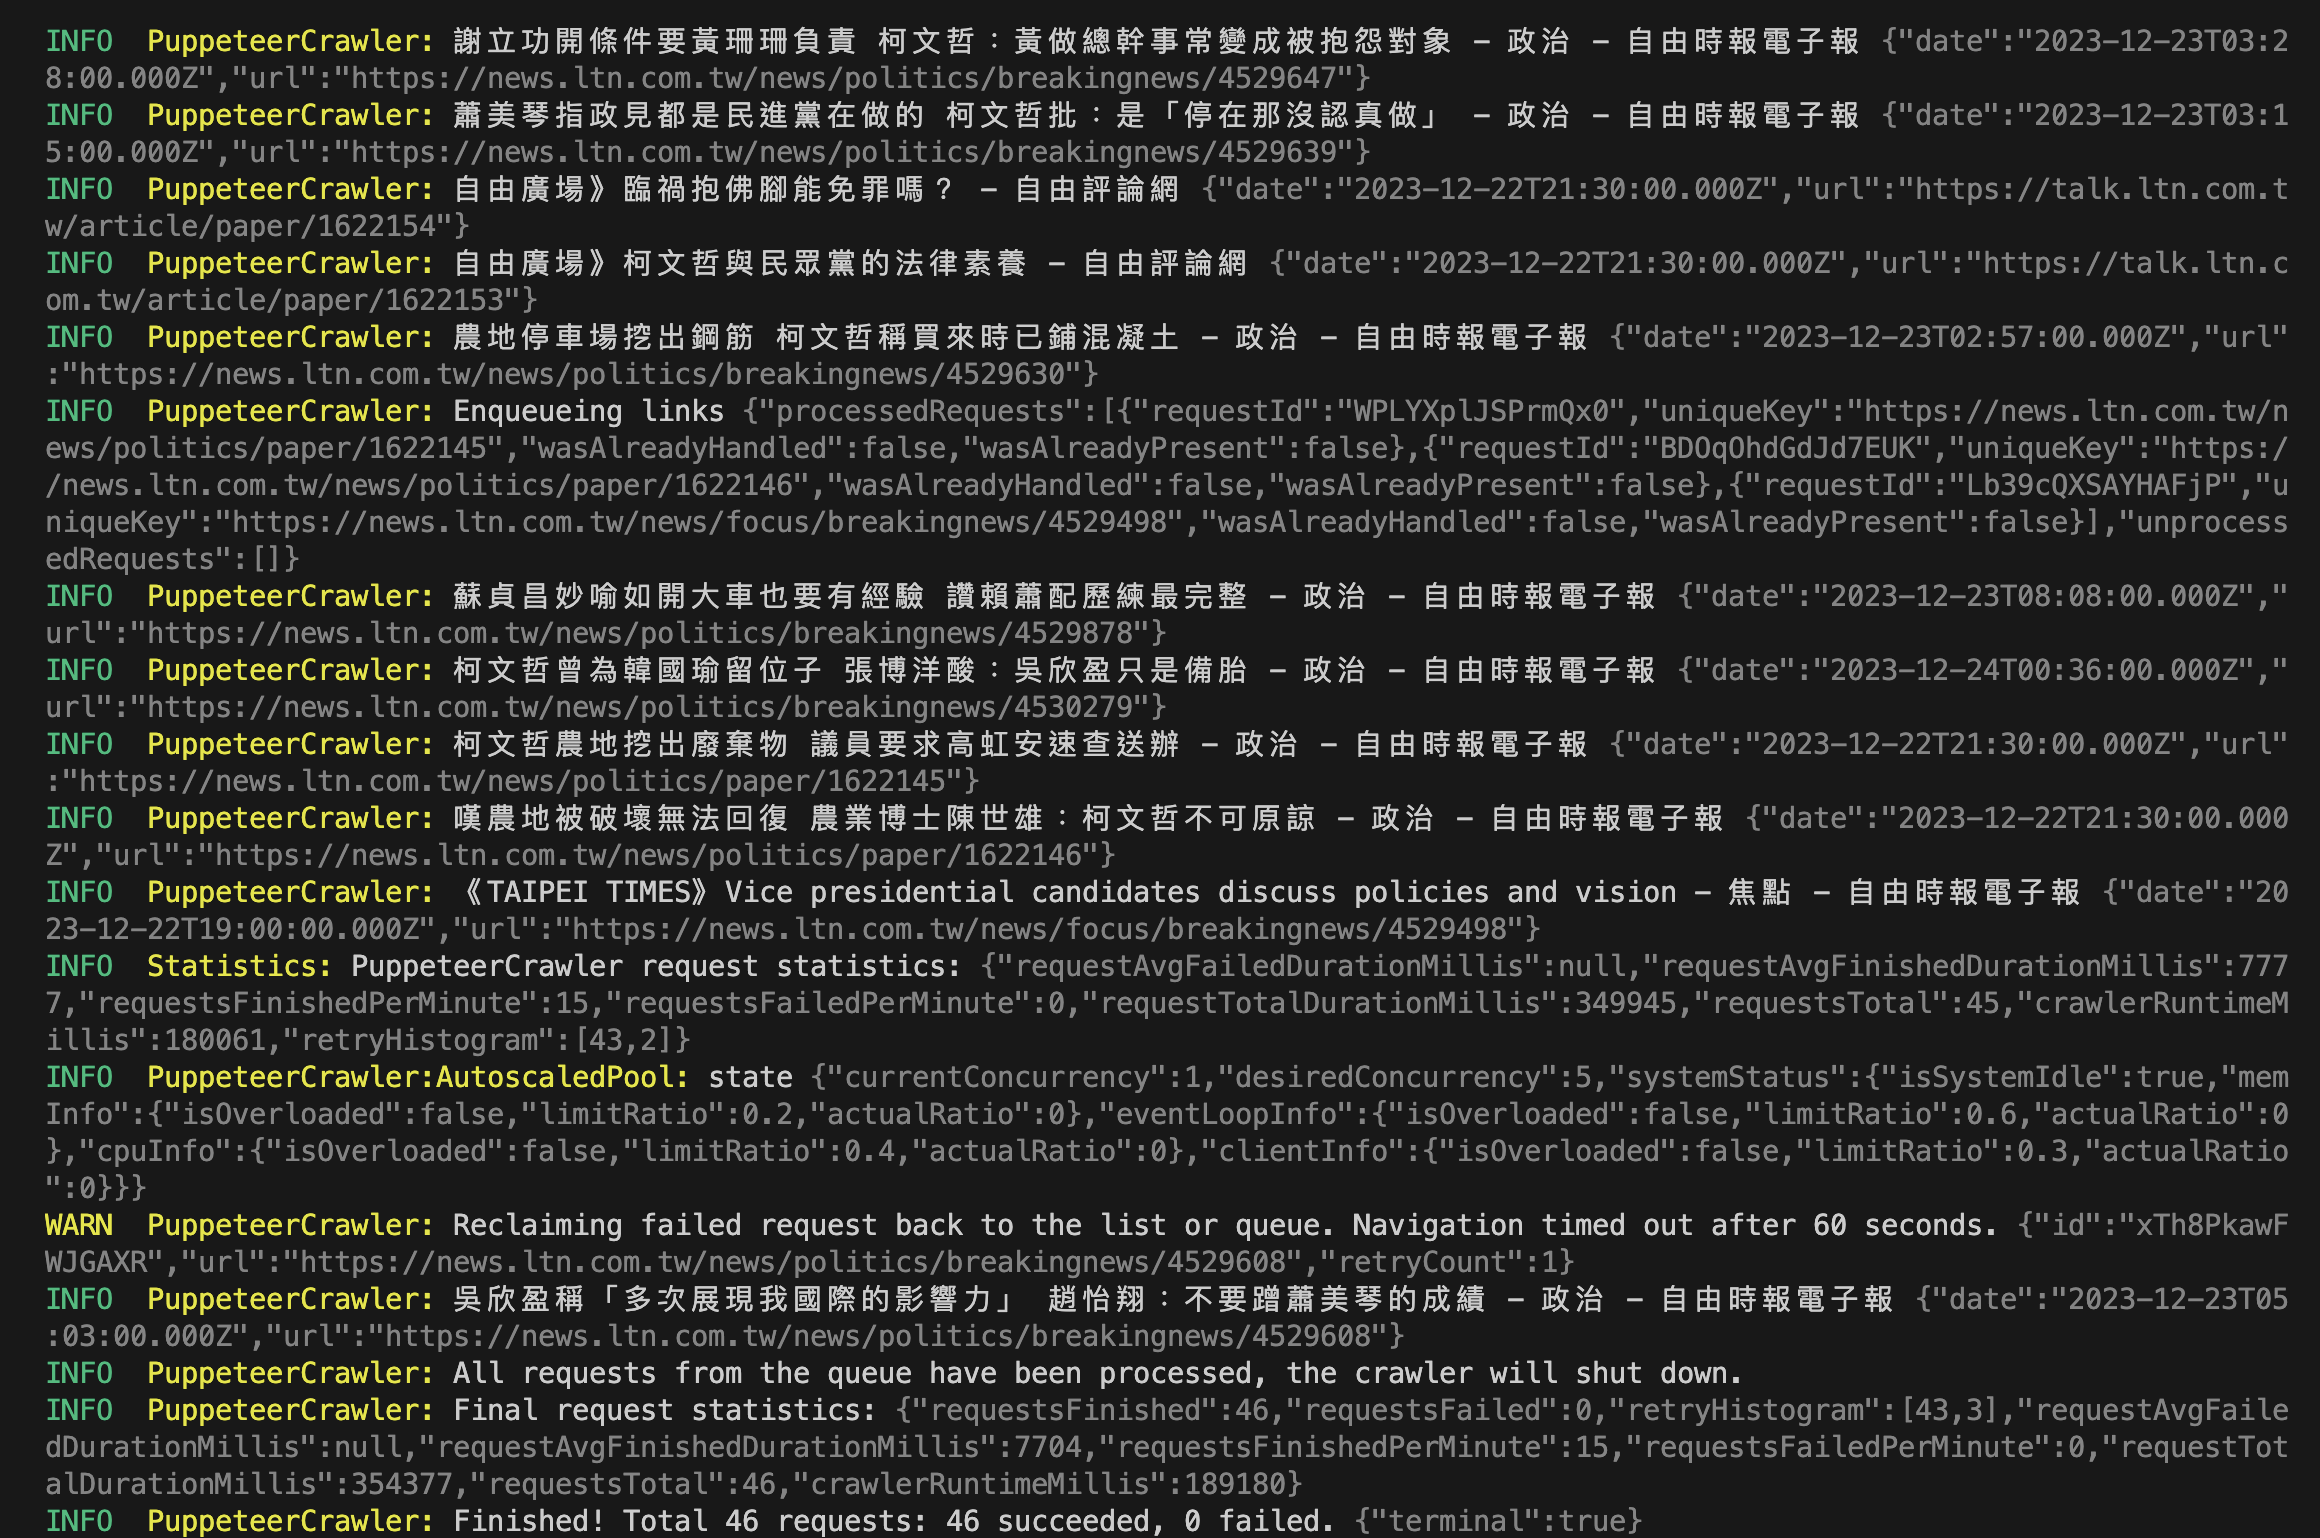
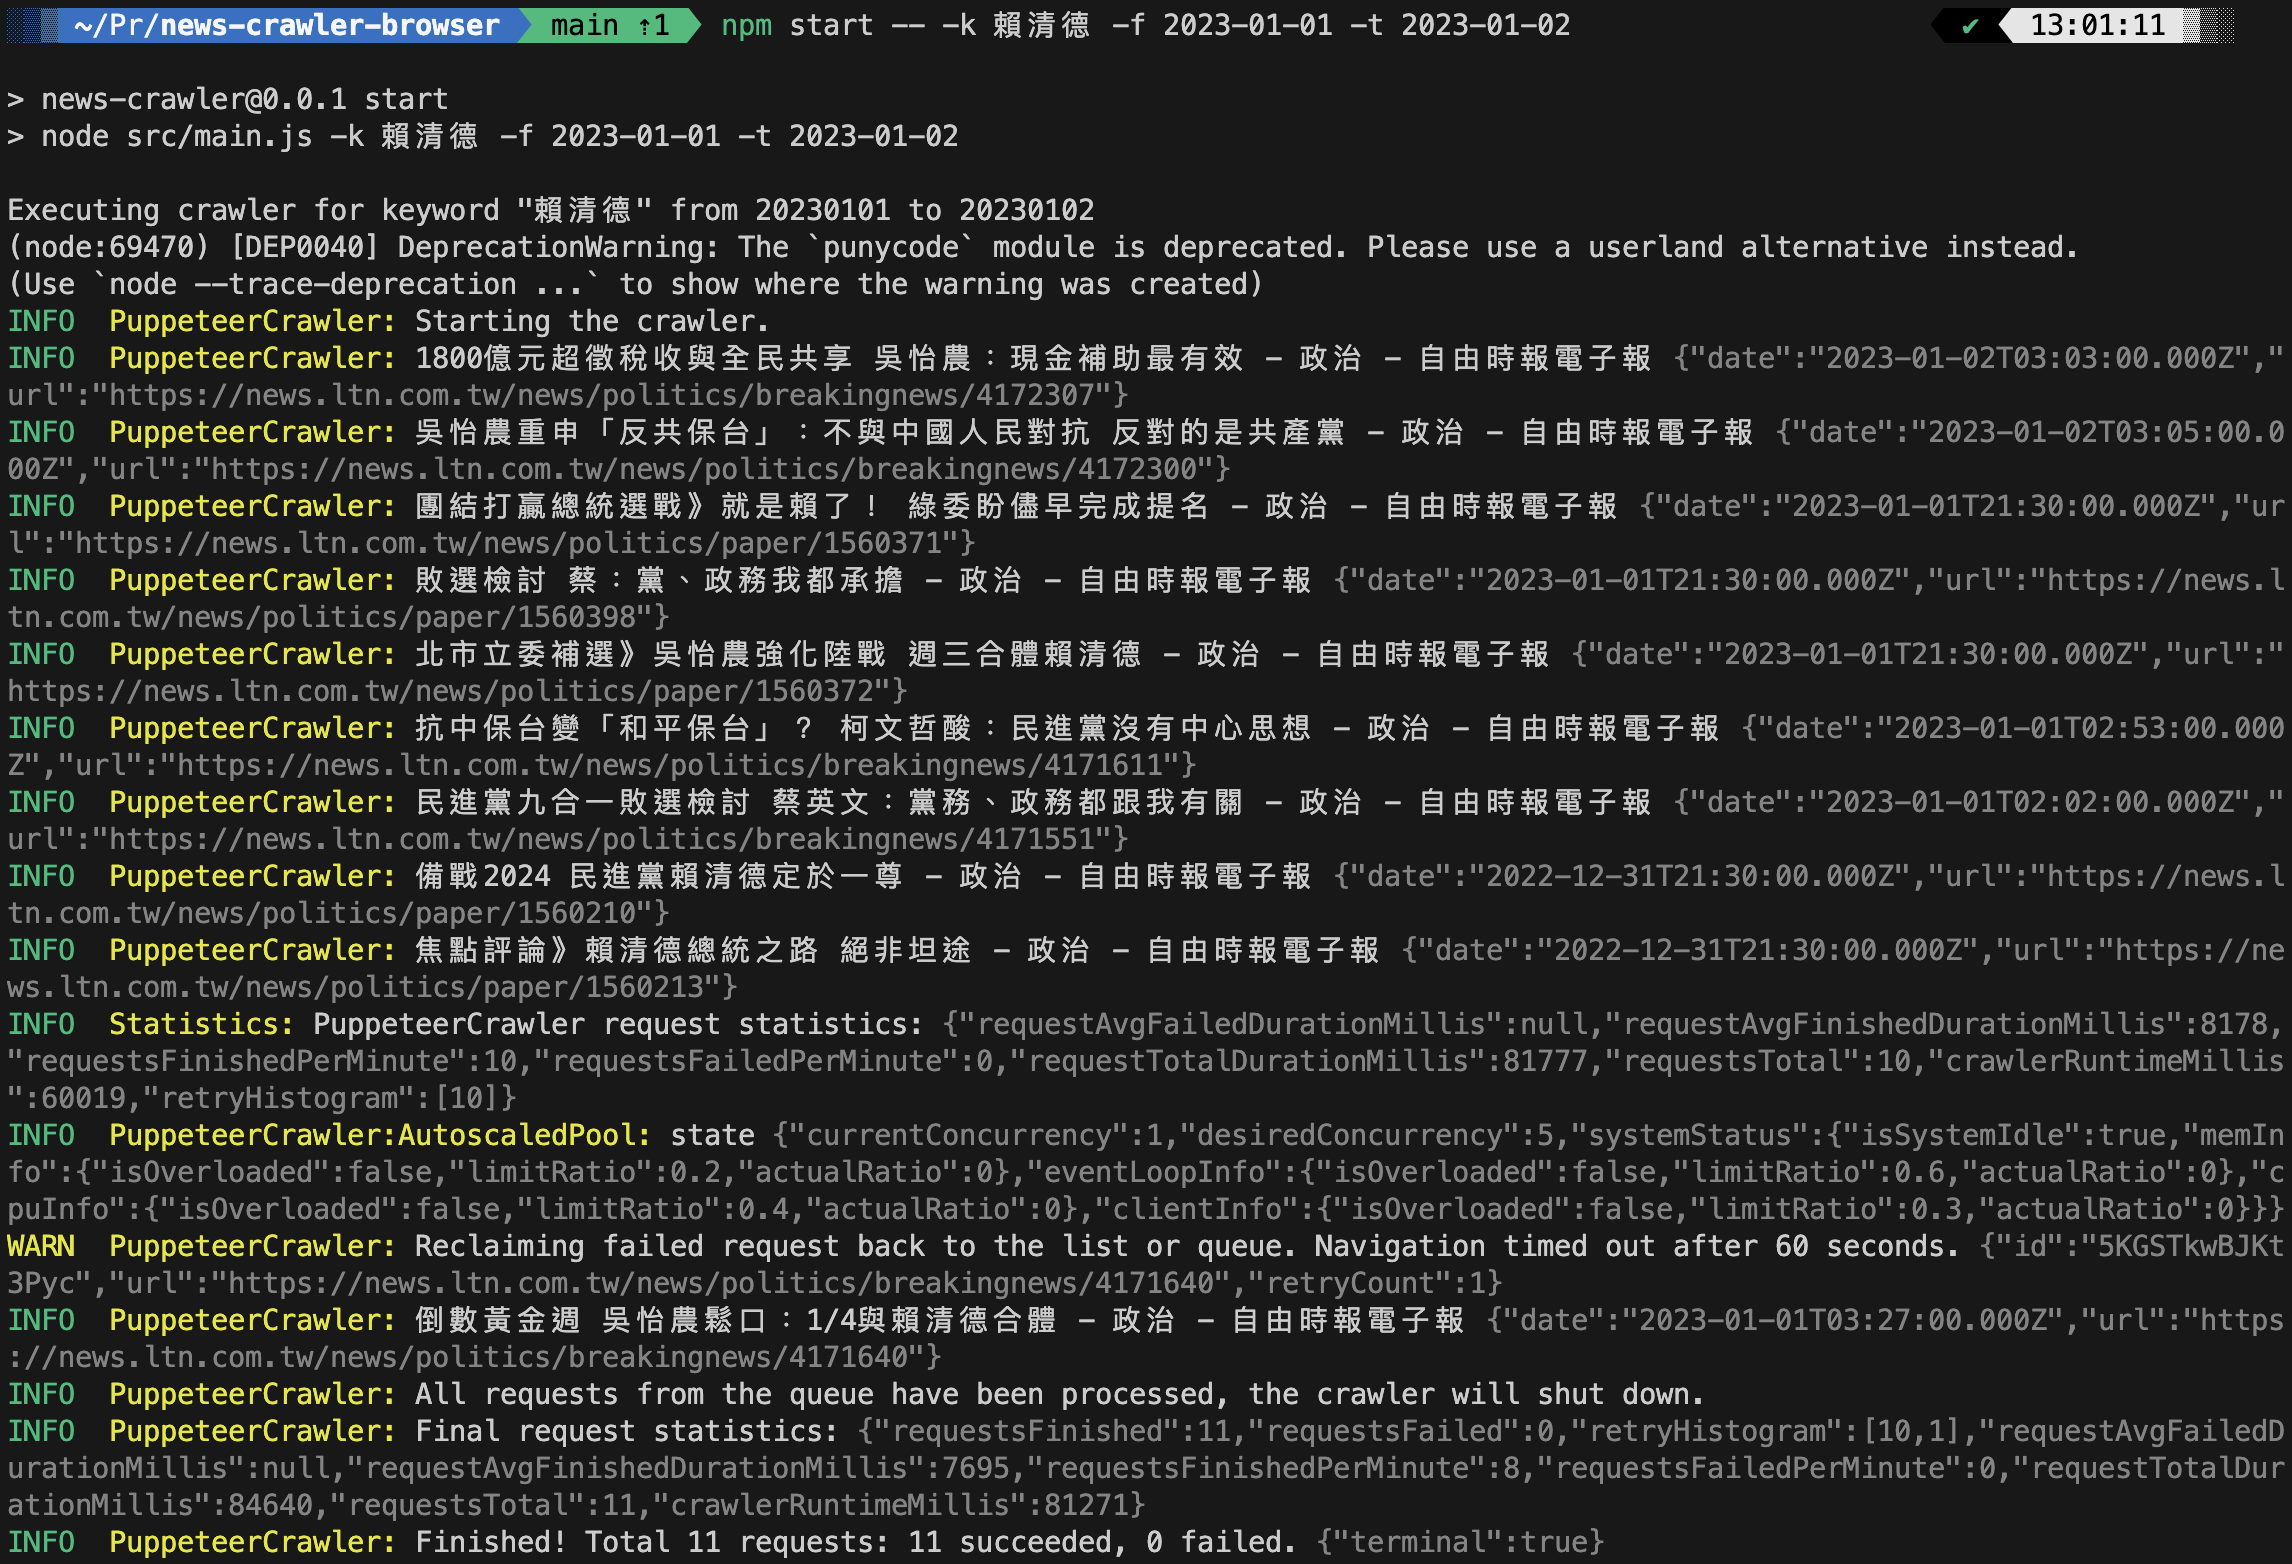
Use default env keys

Changed region(s): [[0.0, 0.0, 1.0, 0.9987]]

diff --git a/src/ltn/index.js b/src/ltn/index.js
@@ -26,6 +26,7 @@ class LTNCrawler {
     for (let i = 0; i < range; i += 1) {
       const from = start.add(i, 'day').format(DATE_FORMAT);
       const to = start.add(i + 1, 'day').format(DATE_FORMAT);
+      console.info(`Executing crawler for keyword "${keyword}" from ${from} to ${to}`);
       await this.execute({
         keyword,
         startDate: from,
@@ -39,8 +40,6 @@ class LTNCrawler {
     startDate,
     endDate,
   }) {
-    console.log(`Executing crawler for keyword "${keyword}" from ${startDate} to ${endDate}`);
-
     const params = {
       keyword,
       start_time: dayjs(startDate).format(DATE_FORMAT),

diff --git a/src/ltn/handlers/fetch-list.js b/src/ltn/handlers/fetch-list.js
@@ -6,7 +6,7 @@ const fetchList = async ({ page, enqueueLinks, log }) => {
     strategy: 'same-domain',
     selector: '.tit',
   });
-  log.info('Enqueueing links', links);
+  log.debug('Enqueueing links', links);
 
   const next = await page.$('.p_next');
   if (next) {
@@ -15,7 +15,7 @@ const fetchList = async ({ page, enqueueLinks, log }) => {
       strategy: 'same-domain',
       selector: '.p_next',
     });
-    log.info('Enqueueing links', links);
+    log.debug('Enqueueing links', links);
   }
 };
 

diff --git a/src/main.js b/src/main.js
@@ -15,12 +15,6 @@ const { keyword, from, to } = program.opts();
 const ltnCrawler = new LTNCrawler({
   maxRequestsPerCrawl: 10000,
   maxConcurrency: 10,
-  launchContext: {
-    launchOptions: {
-      executablePath: process.env.CRAWLER_EXECUTABLE_PATH,
-      headless: process.env.CRAWLER_HEADLESS === 'true',
-    },
-  },
 });
 
 ltnCrawler.run({

diff --git a/README.md b/README.md
@@ -11,7 +11,7 @@ Before using the News Crawler, make sure to install the required dependencies. R
 
 ```bash
 npm ci
-npm run install:chromium
+npm run install:chrome
 ```
 
 ## Configuration
@@ -21,9 +21,6 @@ To use the News Crawler project, you need to configure your environment variable
 ```env
 # Set to true if you want the crawler to run in headless mode (no browser UI).
 CRAWLER_HEADLESS=true
-
-# If using a custom Chromium executable path, provide the full path here.
-CRAWLER_EXECUTABLE_PATH=
 ```
 
 ## Getting Started
